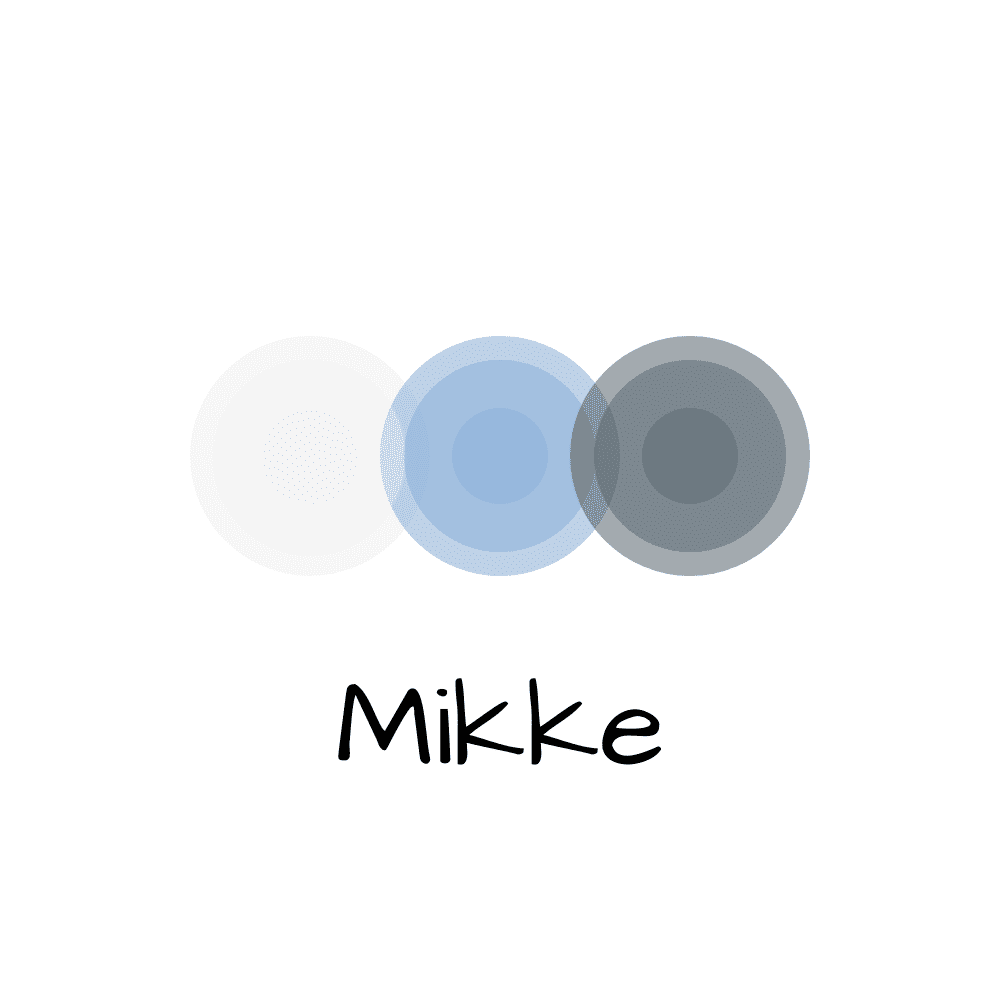
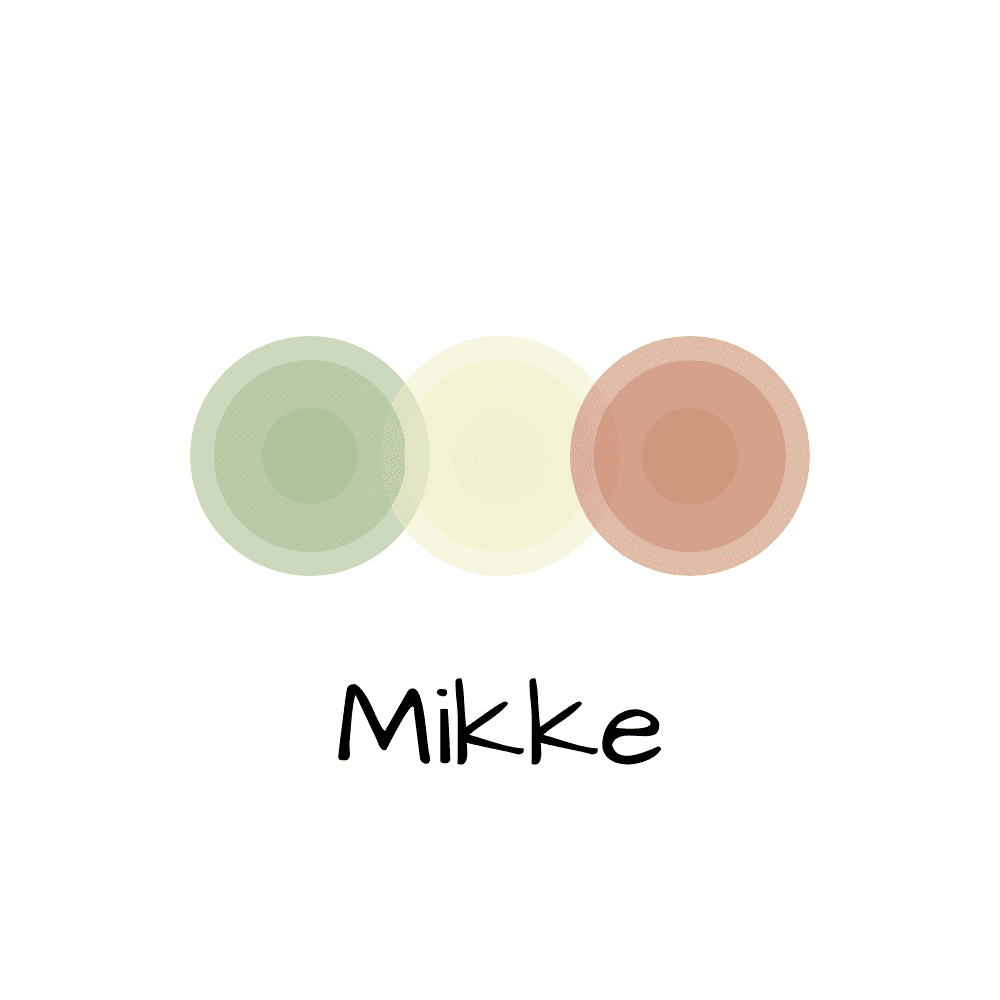
Update:使用するカラーパレットを変更とそれに伴い、ロゴカラーの修正をしました

Changed region(s): [[0.186, 0.31, 0.837, 0.589]]

diff --git a/tailwind.config.js b/tailwind.config.js
@@ -33,6 +33,15 @@ module.exports = {
       'pink-white': '#f9f7eb',
       'tiffany': '#a1cec1',
       'light-blue': '#96B9DB',
+      'mulberry': '#96858f',
+      'lapis_lazuli': '#6d7993',
+      'ash-gray': '#9099a2',
+      'sky-gray': '#d5d5d5',
+      'ivory': '#F7F1F0',
+      'amber': '#E9896A',
+      'matte': '#414141',
+      'ice-green': '#C0D8C0',
+      'baby-blue': '#D7E9F7'
     },
     spacing: {
       px: '1px',

diff --git a/app/javascript/stylesheets/application.scss b/app/javascript/stylesheets/application.scss
@@ -14,8 +14,8 @@ $fa-font-path: "~@fortawesome/fontawesome-free/webfonts";
 }
 .pagination * {
   @apply px-3 py-2 mx-2;
-  @apply text-dark-black font-thin no-underline bg-white rounded-lg;
+  @apply text-matte font-thin no-underline bg-white rounded-md;
 }
 .pagination a:hover {
-  @apply font-thin text-natural bg-dark-black;
+  @apply font-thin text-ivory bg-matte;
 }
